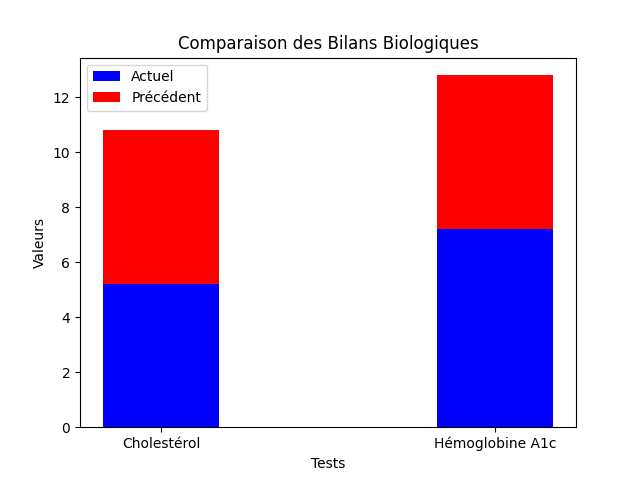
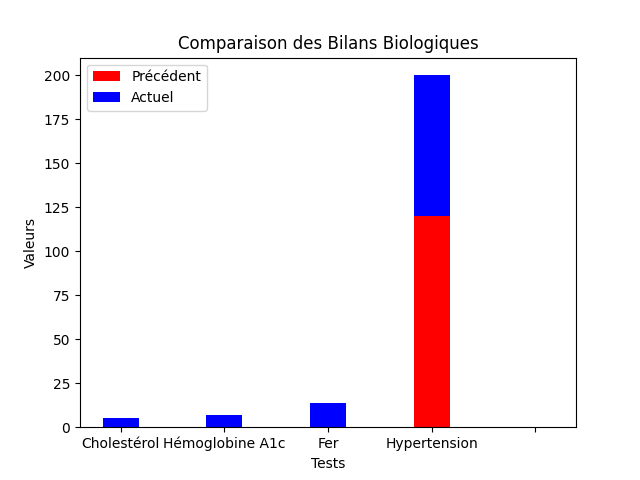
Message du commit

diff --git a/tp/igl/views.py b/tp/igl/views.py
@@ -276,7 +276,7 @@ def generer_graphique_bilan_biologique(request, consultation_id):
 
     except Exception as e:
         return JsonResponse({"error": f"Erreur inattendue : {str(e)}"}, status=500)
-"""
+
 
 
 from django.views.decorators.csrf import csrf_exempt
@@ -324,7 +324,7 @@ def ajouter_consultation(request):
             return JsonResponse({"error": f"Erreur inattendue : {str(e)}"}, status=500)
     return JsonResponse({"error": "Méthode non autorisée."}, status=405)
 
-
+"""
 
 
 from django.views.decorators.csrf import csrf_exempt
@@ -376,32 +376,60 @@ def remplir_bilan(request, consultation_id, type_bilan):
 import matplotlib.pyplot as plt
 import io
 import os
-from django.http import JsonResponse, HttpResponse
+from django.http import HttpResponse, JsonResponse
 from django.conf import settings
-from .models import BilanBiologique, Consultation
+from .models import BilanBiologique, Bilan, Consultation
 
 def generer_graphique_bilan_biologique(request, consultation_id):
     try:
         # Récupérer les bilans actuels pour la consultation
-        bilans_actuels = BilanBiologique.objects.filter(consultation_id=consultation_id).order_by('date_emission')
+        bilans_actuels = Bilan.objects.filter(consultation_id=consultation_id).order_by('date_emission')
         
-        # Récupérer les bilans précédents
-        consultation_precedente = Consultation.objects.filter(id__lt=consultation_id).order_by('-id').first()
-        if consultation_precedente:
-            bilans_precedents = BilanBiologique.objects.filter(consultation_id=consultation_precedente.id).order_by('date_emission')
-        else:
-            bilans_precedents = []
+        # Récupérer les bilans biologiques associés
+        bilan_biologique_dict = {bilan.bilan_ptr_id: bilan.resultat for bilan in BilanBiologique.objects.all()}
 
         labels = [bilan.prescription for bilan in bilans_actuels]
-        resultats_actuels = [float(bilan.resultat) for bilan in bilans_actuels]
-        resultats_precedents = [float(bilan.resultat) for bilan in bilans_precedents] if bilans_precedents else [0] * len(resultats_actuels)
+        resultats_actuels = []
+        resultats_precedents = []
+        
+        for bilan in bilans_actuels:
+            resultat = bilan_biologique_dict.get(bilan.id, "0")
+            if "/" in resultat:
+                ancien, nouveau = resultat.split("/")
+                try:
+                    resultats_precedents.append(float(ancien))
+                    resultats_actuels.append(float(nouveau))
+                except ValueError:
+                    resultats_precedents.append(0)
+                    resultats_actuels.append(0)
+            elif " " in resultat:
+                ancien, nouveau = resultat.split(" ")
+                try:
+                    resultats_precedents.append(float(ancien))
+                    resultats_actuels.append(float(nouveau))
+                except ValueError:
+                    resultats_precedents.append(0)
+                    resultats_actuels.append(0)
+            else:
+                try:
+                    resultats_actuels.append(float(resultat))
+                    resultats_precedents.append(0)
+                except ValueError:
+                    resultats_actuels.append(0)
+                    resultats_precedents.append(0)
+
+        # Vérifier et ajuster les listes pour qu'elles aient la même longueur
+        max_length = max(len(resultats_actuels), len(resultats_precedents))
+        if len(resultats_actuels) < max_length:
+            resultats_actuels.extend([0] * (max_length - len(resultats_actuels)))
+        if len(resultats_precedents) < max_length:
+            resultats_precedents.extend([0] * (max_length - len(resultats_precedents)))
         
         width = 0.35
 
         fig, ax = plt.subplots()
-        ax.bar(labels, resultats_actuels, width, label='Actuel', color='b')
-        if bilans_precedents:
-            ax.bar(labels, resultats_precedents, width, bottom=resultats_actuels, label='Précédent', color='r')
+        ax.bar(labels, resultats_precedents, width, label='Précédent', color='r')
+        ax.bar(labels, resultats_actuels, width, bottom=resultats_precedents, label='Actuel', color='b')
 
         ax.set_xlabel('Tests')
         ax.set_ylabel('Valeurs')
@@ -428,3 +456,36 @@ def generer_graphique_bilan_biologique(request, consultation_id):
 
     except Exception as e:
         return JsonResponse({"error": f"Erreur inattendue : {str(e)}"}, status=500)
+
+
+"""
+
+from django.views.decorators.csrf import csrf_exempt
+from django.shortcuts import get_object_or_404
+from django.http import JsonResponse
+from .models import Consultation, BilanRadiologique
+
+@csrf_exempt
+def uploader_bilan_radiologique(request, consultation_id):
+    if request.method == 'POST':
+        try:
+            # Extraire les données du formulaire
+            compte_rendu = request.POST.get('compte_rendu', '')
+            image = request.FILES.get('image')
+
+            # Récupérer la consultation
+            consultation = get_object_or_404(Consultation, id=consultation_id)
+
+            # Créer et associer le bilan radiologique à la consultation
+            bilan_radiologique = BilanRadiologique.objects.create(
+                consultation=consultation,
+                compte_rendu=compte_rendu,
+                image_url=image
+            )
+
+            return JsonResponse({"message": "Bilan radiologique ajouté et associé à la consultation avec succès.", "bilan_id": bilan_radiologique.id}, status=201)
+
+        except Exception as e:
+            return JsonResponse({"error": f"Erreur inattendue : {str(e)}"}, status=500)
+    return JsonResponse({"error": "Méthode non autorisée."}, status=405)
+"""

diff --git a/tp/tp/urls.py b/tp/tp/urls.py
@@ -22,13 +22,19 @@ from django.conf.urls.static import static
 from django.conf import settings
 
 
+from django.urls import path
+from django.conf import settings
+from django.conf.urls.static import static
+from django.contrib import admin
+
+
 urlpatterns = [
-    #path('demander_certificat/<str:patient_nss>/', views.demander_certificat_medical, name='demander_certificat'),
+   # path('uploader_bilan_radiologique/<int:consultation_id>/', views.uploader_bilan_radiologique, name='uploader_bilan_radiologique'),
+  #  path('demander_certificat/<str:patient_nss>/', views.demander_certificat_medical, name='demander_certificat'),
    # path('ajouter_patient/', views.ajouter_patient, name='ajouter_patient'),
-   # path('consulter_dpi/<int:dpi_id>/', views.consulter_dpi, name='consulter_dpi'),
-    path('remplir_bilan/<int:consultation_id>/<str:type_bilan>/', views.remplir_bilan, name='remplir_bilan'),
-    path('generer_graphique_bilan_biologique/<int:consultation_id>/', views.generer_graphique_bilan_biologique, name='generer_graphique_bilan_biologique'), 
-    path('ajouter_consultation/', views.ajouter_consultation, name='ajouter_consultation'),
+  #  path('consulter_dpi/<int:dpi_id>/', views.consulter_dpi, name='consulter_dpi'),
+  #  path('remplir_bilan/<int:consultation_id>/<str:type_bilan>/', views.remplir_bilan, name='remplir_bilan'),
+    path('generer_graphique_bilan_biologique/<int:consultation_id>/', views.generer_graphique_bilan_biologique, name='generer_graphique_bilan_biologique'),
+  #  path('ajouter_consultation/', views.ajouter_consultation, name='ajouter_consultation'),
     path('admin/', admin.site.urls),  # Utilise admin.site.urls pour l'admin
-    # autres chemins d'URL à ajouter ici
 ] + static(settings.MEDIA_URL, document_root=settings.MEDIA_ROOT)
